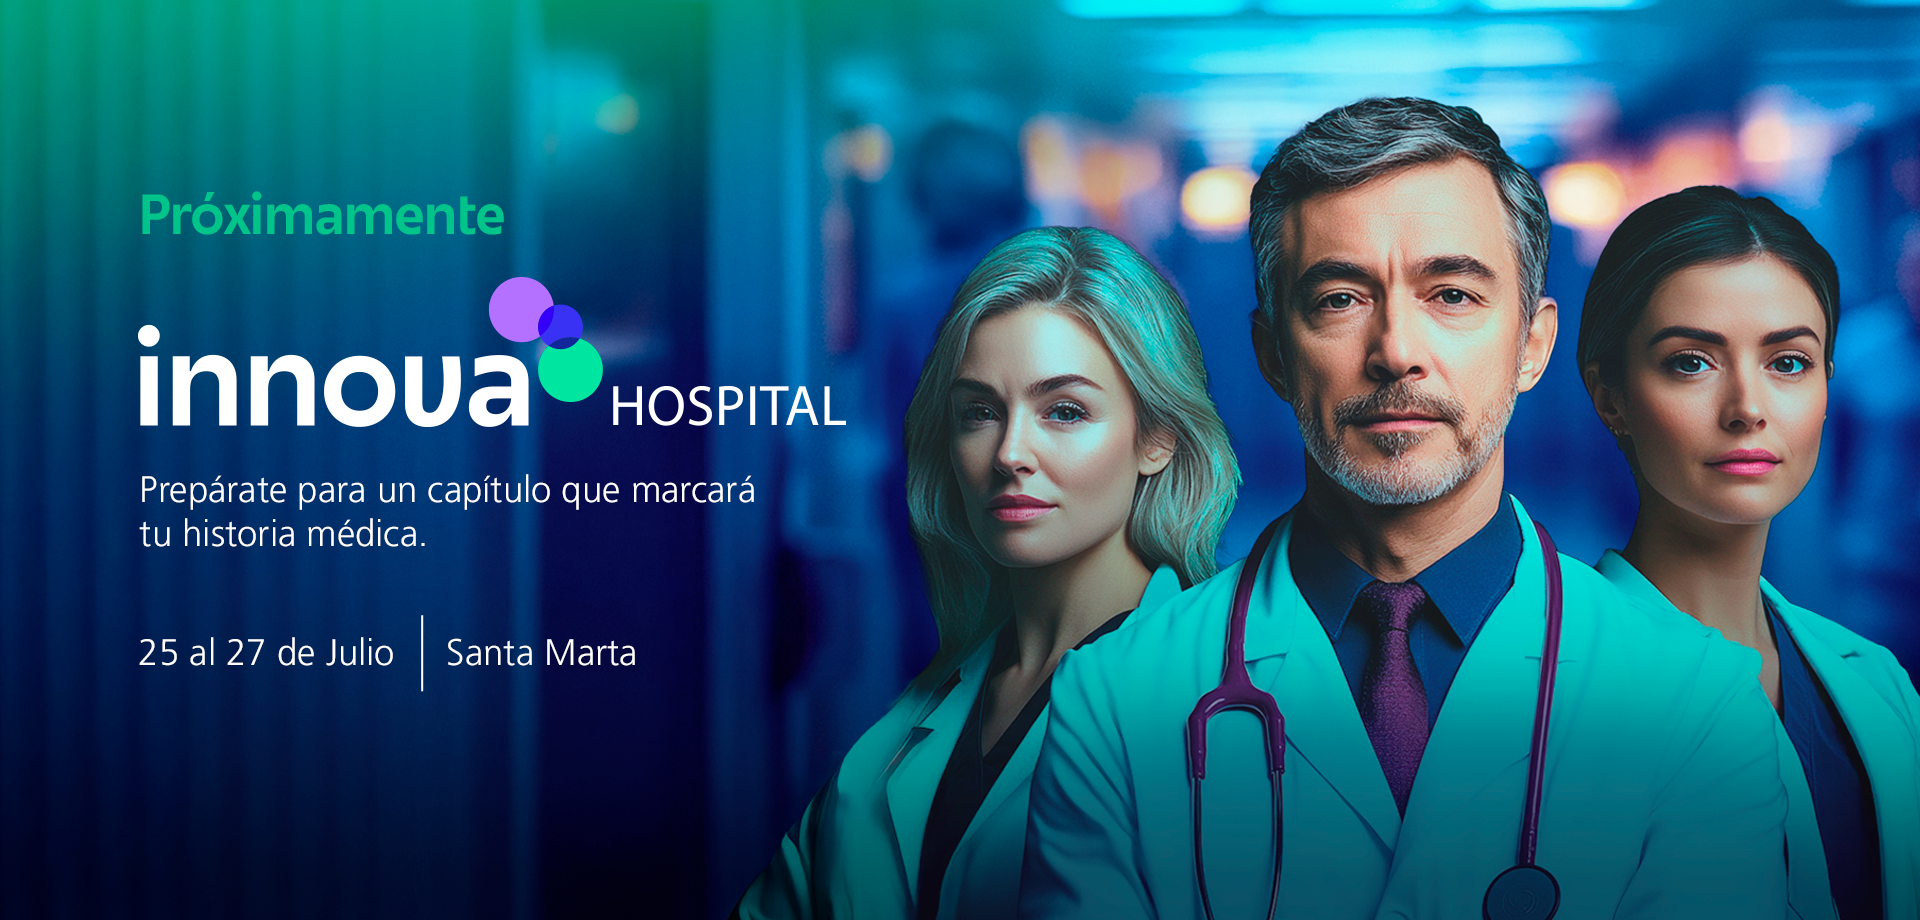
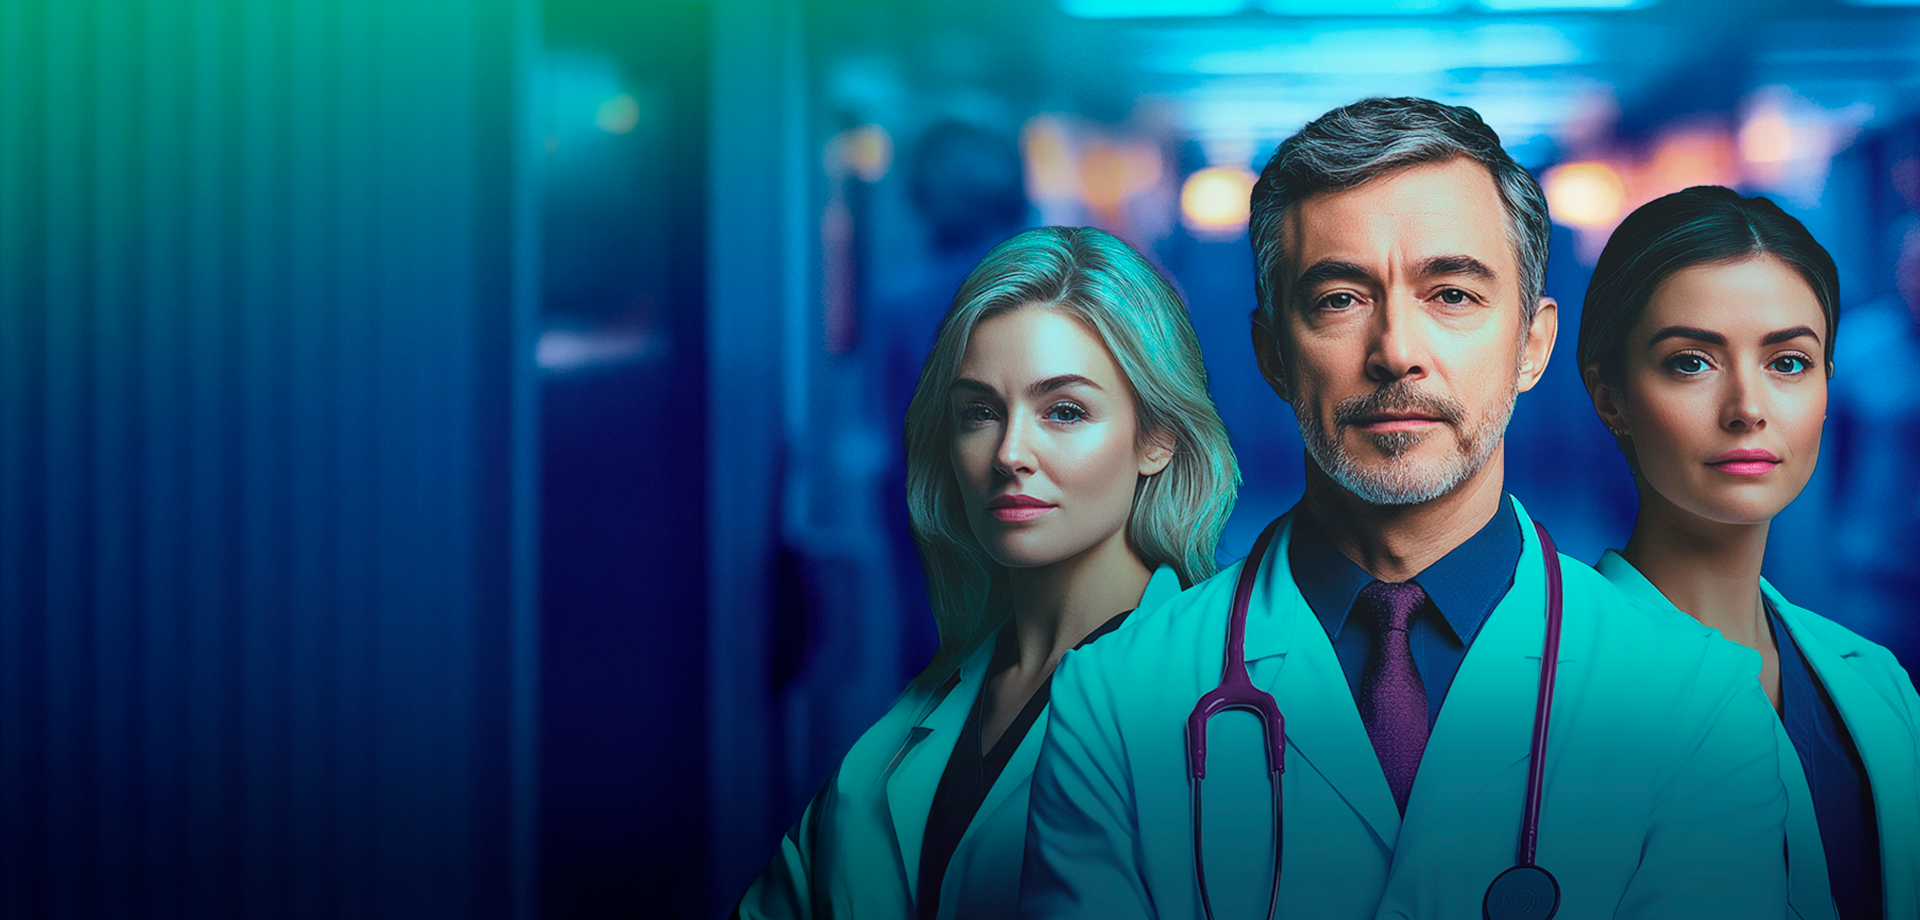
Ajustes responsive

diff --git a/src/styles/Header.css b/src/styles/Header.css
@@ -113,7 +113,7 @@
   height: 4px;
   width: 32px;
   background: #fff;
-  margin: 7px 0;
+  margin: 17px 0;
   border-radius: 2px;
   transition: 0.3s;
 }
@@ -131,106 +131,27 @@
 }
 
 /* RESPONSIVE */
-@media (max-width: 900px) {
-  .custom-header {
-    height: 80px;
-    margin: 4px;
-  }
-  .header-logo-text {
-    margin-left: 24px;
-  }
-  .header-menu {
-    margin-right: 24px;
-  }
-  .logo-main {
-    font-size: 32px;
-  }
-  .logo-tm {
-    font-size: 10px;
-    top: 4px;
-  }
-  .header-menu a {
-    font-size: 20px;
-    padding: 0 12px;
-  }
-  .separator {
-    height: 28px;
-    margin: 0 4px;
-  }
-}
-@media (max-width: 700px) {
-  .burger {
-    display: block;
-  }
-  .header-menu {
-    position: fixed;
-    top: 0;
-    left: 0;
-    width: 100vw;
-    height: 100vh;
-    background: #3c3b75;
-    flex-direction: column;
-    justify-content: center;
-    align-items: center;
-    z-index: 100;
-    opacity: 0;
-    pointer-events: none;
-    transition: opacity 0.3s;
-  }
-  .header-menu.open {
-    opacity: 1;
-    pointer-events: auto;
-  }
-  .header-menu ul {
-    flex-direction: column;
-    gap: 0;
-  }
-  .header-menu li {
-    width: 100vw;
-    justify-content: center;
-  }
-  .header-menu a {
-    font-size: 32px;
-    padding: 24px 0;
-    width: 100vw;
-    text-align: center;
-  }
-  .separator {
-    width: 80vw;
-    height: 1px;
-    background: #fff;
-    margin: 0 auto;
-    opacity: 0.2;
-  }
-}
+
 
 @media (max-width: 1300px) {
-  .header-menu nav {
-    max-width: 100%;
-  }
-
-  .header-menu nav ul a li {
+  .header-menu a {
     font-size: 1.2rem;
-  }
-
-  .header-logo {
-    width: 20%;
-  }
-
-  .header-menu {
-    margin-right: 2rem;
-  }
-
-  .header-menu nav ul a{
-    margin-right: 1.5rem;
+    padding: 0 12px;
   }
 }
 
-@media screen and (max-width: 1024px) {
+@media screen and (max-width: 900px) {
   header {
     display: flex;
     justify-content: space-between;
     height: 100px;
+    width: 100%;
+  }
+
+  .header-logo-text {
+    display: flex;
+    justify-content: space-between;
+    align-items: center;
     width: 100%;
   }
 
@@ -253,16 +174,15 @@
     right: 30px;
     width: 88px;
     height: 88px;
-    background: url("../assets/icons/menu.svg");
+    /* background: url("../assets/icons/menu.svg"); */
     background-repeat: no-repeat;
     background-position: center;
     border: none;
   }
 
-  .burger.open {
+  /* .burger.open {
     background-image: url('../assets/icons/close.svg');
-    margin-right: 0;
-  }
+  } */
 
   .burger.open,
   .header-menu {
@@ -290,8 +210,8 @@
 
   .header-menu {
     z-index: 3;
-    top: 180px;
-    left: 0;
+    top: 90px;
+    left: 0px;
     height: 100%;
     width: 100%;
     opacity: 0;
@@ -305,6 +225,18 @@
 
   .header-menu a {
     transition: 0.5s;
+  }
+
+  .header-menu ul {
+    flex-direction: column;
+  }
+
+  .header-menu li {
+    height: 10%;
+  }
+
+  .separator {
+    display: none !important;
   }
 
   .header-menu nav ul {
@@ -342,10 +274,41 @@
   }
 }
 
+/* @media (max-width: 900px) {
+
+  .header-menu ul {
+    flex-direction: column;
+  }
+
+  .custom-header {
+    height: 80px;
+    margin: 4px;
+  }
+
+  .header-menu {
+    margin-right: 24px;
+  }
+
+  .logo-main {
+    font-size: 32px;
+  }
+
+  .logo-tm {
+    font-size: 10px;
+    top: 4px;
+  }
+
+  .header-menu a {
+    font-size: 20px;
+    padding: 0 12px;
+  }
+
+  .separator {
+    display: none !important;
+  }
+} */
+
 @media (max-width: 500px) {
-  /* .header-menu nav ul {
-    width: 80vw;
-  } */
 
   .header-menu nav ul a li {
     font-size: 1rem;

diff --git a/src/Components/Banner.tsx b/src/Components/Banner.tsx
@@ -1,10 +1,18 @@
-import banner from "../assets/images/banner-desktop.png";
+import BannerDesktop from "../assets/images/banner-desktop2.png";
+import BannerMobile from "../assets/images/banner-mobile.png";
+
+import "../styles/Banner.css";
 
 const Banner = () => {
   return (
     <div className="banner">
       <div className="banner-content">
-        <img src={banner} alt="banner" />
+        <img
+          src={BannerDesktop}
+          alt="banner desktop"
+          className="banner-desktop"
+        />
+        <img src={BannerMobile} alt="banner mobile" className="banner-mobile" />
       </div>
     </div>
   );

diff --git a/src/styles/speakers/Speakers.css b/src/styles/speakers/Speakers.css
@@ -10,6 +10,7 @@
 }
 
 .speakers-carousel-title {
+  font-family: "June Expt Variable", sans-serif;
   font-size: 2.5rem;
   color: #fff;
   margin-bottom: 4rem;
@@ -123,14 +124,11 @@
     min-height: 480px;
   }
 
-  .carousel-card.left,
-  .carousel-card.right {
-    transform: translateX(-120%) scale(0.8);
-  }
-
-  .carousel-card.right {
-    transform: translateX(40%) scale(0.8);
-  }
+    .carousel-card.left,
+    .carousel-card.right,
+    .carousel-card.hidden {
+      display: none !important;
+    }
 }
 
 @media (max-width: 750px) {

diff --git a/src/styles/Banner.css b/src/styles/Banner.css
@@ -1,0 +1,27 @@
+.banner-content img {
+  width: 100%;
+  height: 100%;
+  object-fit: cover;
+  object-position: center;
+}
+
+/* Mobile banner - shown by default */
+.banner-mobile {
+  display: block;
+}
+
+/* Desktop banner - hidden by default */
+.banner-desktop {
+  display: none;
+}
+
+/* Show desktop banner on tablets and larger screens (768px and up) */
+@media (min-width: 768px) {
+  .banner-mobile {
+    display: none;
+  }
+  
+  .banner-desktop {
+    display: block;
+  }
+}

diff --git a/src/Components/Header.tsx b/src/Components/Header.tsx
@@ -1,10 +1,9 @@
 import { useState } from "react";
-
-import "../styles/Header.css";
+import { useLocation } from "react-router-dom";
 
 import Logo from "../assets/images/logo.png";
-// import Separator from "../assets/images/separator.png";
-import { useLocation } from "react-router-dom";
+
+import "../styles/Header.css";
 
 export const Header = () => {
   const [isMenuOpen, setIsMenuOpen] = useState(false);

diff --git a/src/Components/speakers/Speakers.tsx b/src/Components/speakers/Speakers.tsx
@@ -108,7 +108,6 @@ const Speakers: React.FC = () => {
 
   return (
     <div id="speakers" className="speakers-carousel-container">
-      {/* //TODO: Cambio de fuente por June Expt Variable */}
       <div className="speakers-carousel-title">
         <h2>Speakers</h2>
       </div>

diff --git a/src/styles/Agent.css b/src/styles/Agent.css
@@ -139,6 +139,15 @@
   .agenda-container {
     flex-direction: column;
     align-items: center;
+    padding: 3rem 0;
+  }
+
+  .agenda-header {
+    width: 70%;
+  }
+
+  .agenda-schedule {
+    width: 70%;
   }
 }
 
